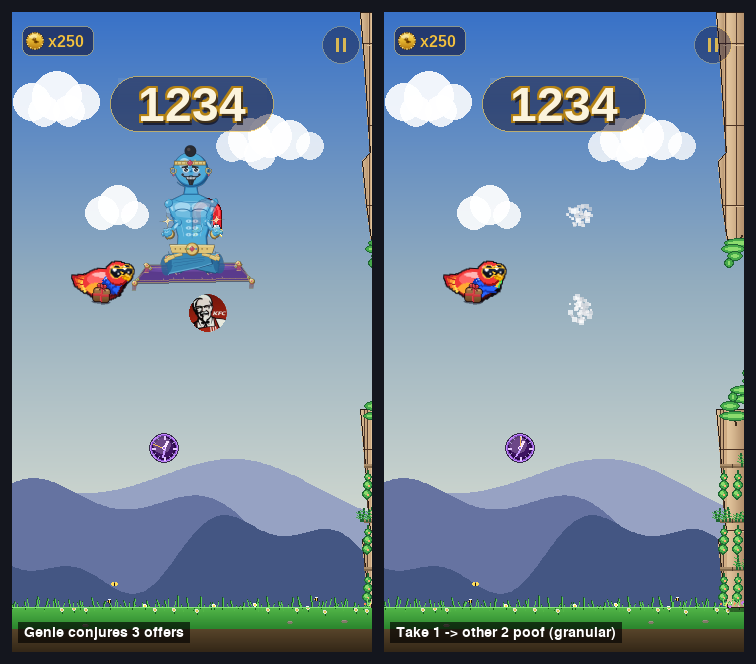
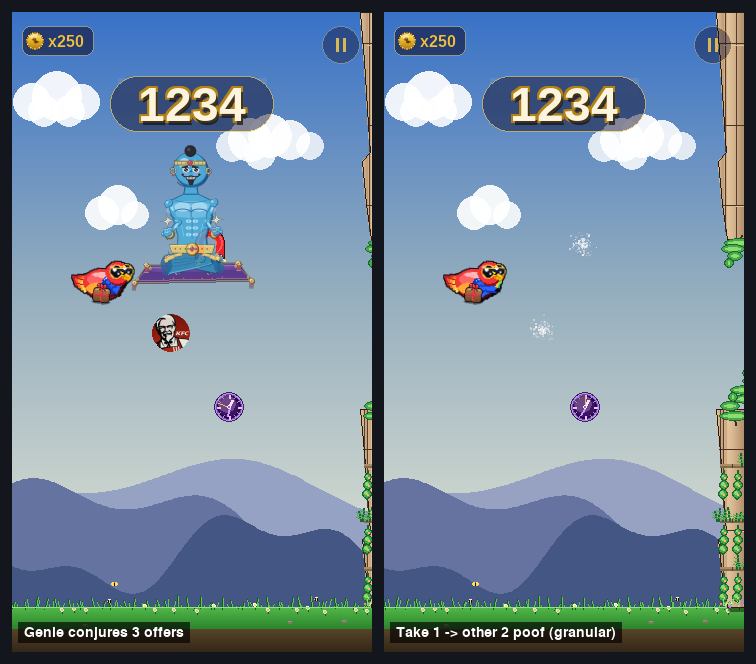
genie: make poofs a dense cloud of fine twinkling magic dust
PoofGrain is now a tiny 1-2 px twinkling mote; _spawn_grainy_poof emits
~180 of them over a disc (sqrt area fill) so the burst reads as a dense
cloud of fine magic dust rather than chunky squares or big circles.
Regenerates the comparison + offer-vanish demos.

https://claude.ai/code/session_01Ms85cBEeRiAtxZBCNh5vN5

diff --git a/game/entities.py b/game/entities.py
@@ -3312,11 +3312,12 @@ class CloudPuff:
 
 
 class PoofGrain:
-    """A single grain of a GRANULAR poof — a small soft SQUARE (not a
-    circle) that drifts outward, slows like settling dust, and fades.
-    Many grains per burst give the poof a fine, granular texture
-    instead of a few smooth cloud circles."""
-    __slots__ = ("x", "y", "vx", "vy", "life", "life_max", "size", "color")
+    """A single mote of MAGIC DUST — a tiny 1-2 px speck that drifts
+    outward, slows like settling dust, twinkles, and fades. Spawned in
+    large numbers so the burst reads as a dense cloud of fine glittery
+    dust rather than a few big smoke circles."""
+    __slots__ = ("x", "y", "vx", "vy", "life", "life_max", "size",
+                 "color", "_ph")
 
     def __init__(self, x, y, vx, vy, life, size, color):
         self.x, self.y   = float(x), float(y)
@@ -3324,15 +3325,15 @@ class PoofGrain:
         self.life = self.life_max = life
         self.size = size
         self.color = color
+        self._ph = random.uniform(0, math.tau)   # per-mote twinkle phase
 
     def update(self, dt):
         self.x += self.vx * dt
         self.y += self.vy * dt
-        # Ease the grains to a near-stop so the burst hangs like a
-        # cloud of fine dust rather than flying apart.
-        self.vx *= 0.88
-        self.vy *= 0.88
-        self.vy += 26 * dt           # gentle settle
+        # Ease to a near-stop so the dust hangs and settles.
+        self.vx *= 0.90
+        self.vy *= 0.90
+        self.vy += 18 * dt
         self.life -= dt
 
     def alive(self):
@@ -3340,11 +3341,13 @@ class PoofGrain:
 
     def draw(self, surf):
         t = max(0.0, self.life / self.life_max)      # 1→0 as it dies
-        alpha = int(225 * t)
+        # Twinkle: shimmer the alpha so the dust glitters like magic.
+        age = self.life_max - self.life
+        tw = 0.55 + 0.45 * math.sin(self._ph + age * 26.0)
+        alpha = int(235 * t * tw)
         if alpha <= 0:
             return
-        # Grains grow a touch as the puff blooms, then fade in place.
-        sz = max(1, int(self.size * (1.4 - 0.4 * t)))
+        sz = max(1, self.size)
         s = pygame.Surface((sz, sz), pygame.SRCALPHA)
         s.fill((*self.color, alpha))
         surf.blit(s, (int(self.x - sz / 2), int(self.y - sz / 2)))

diff --git a/game/world.py b/game/world.py
@@ -2194,22 +2194,23 @@ class World:
             color = random.choice(puff_colors)
             self.particles.append(CloudPuff(x, y, vx, vy, life, r0, r1, color))
 
-    def _spawn_grainy_poof(self, x, y, palette=None, n=56):
-        """Granular poof — a dense burst of small square GRAINS
-        (PoofGrain) instead of a few smooth cloud circles, so it reads
-        as fine smoke/dust. White smoke by default (genie appear /
-        vanish + unchosen offers); pass `palette` for the lavender
-        genie-reveal variant."""
+    def _spawn_grainy_poof(self, x, y, palette=None, n=180):
+        """Magic-dust poof — a DENSE cloud of many tiny (1-2 px)
+        twinkling motes (PoofGrain) rather than a few big smoke
+        circles. White dust by default (genie appear / vanish +
+        unchosen offers); pass `palette` for the lavender reveal."""
         if palette is None:
             palette = [(255, 255, 255), (240, 240, 242),
                        (224, 226, 230), (208, 212, 218)]
         for _ in range(n):
             ang = random.uniform(0, math.tau)
-            sp  = random.uniform(25, 170)
+            # Spread the dust over a disc (sqrt for even area fill) so
+            # the cloud is dense in the middle and thins at the edges.
+            sp  = random.uniform(10, 200) * math.sqrt(random.random())
             vx  = math.cos(ang) * sp
-            vy  = math.sin(ang) * sp - random.uniform(8, 48)
-            life = random.uniform(0.35, 0.72)
-            size = random.randint(2, 5)
+            vy  = math.sin(ang) * sp - random.uniform(6, 40)
+            life = random.uniform(0.40, 0.85)
+            size = random.choice((1, 1, 1, 2, 2))     # mostly single-pixel motes
             self.particles.append(
                 PoofGrain(x, y, vx, vy, life, size, random.choice(palette)))
 
